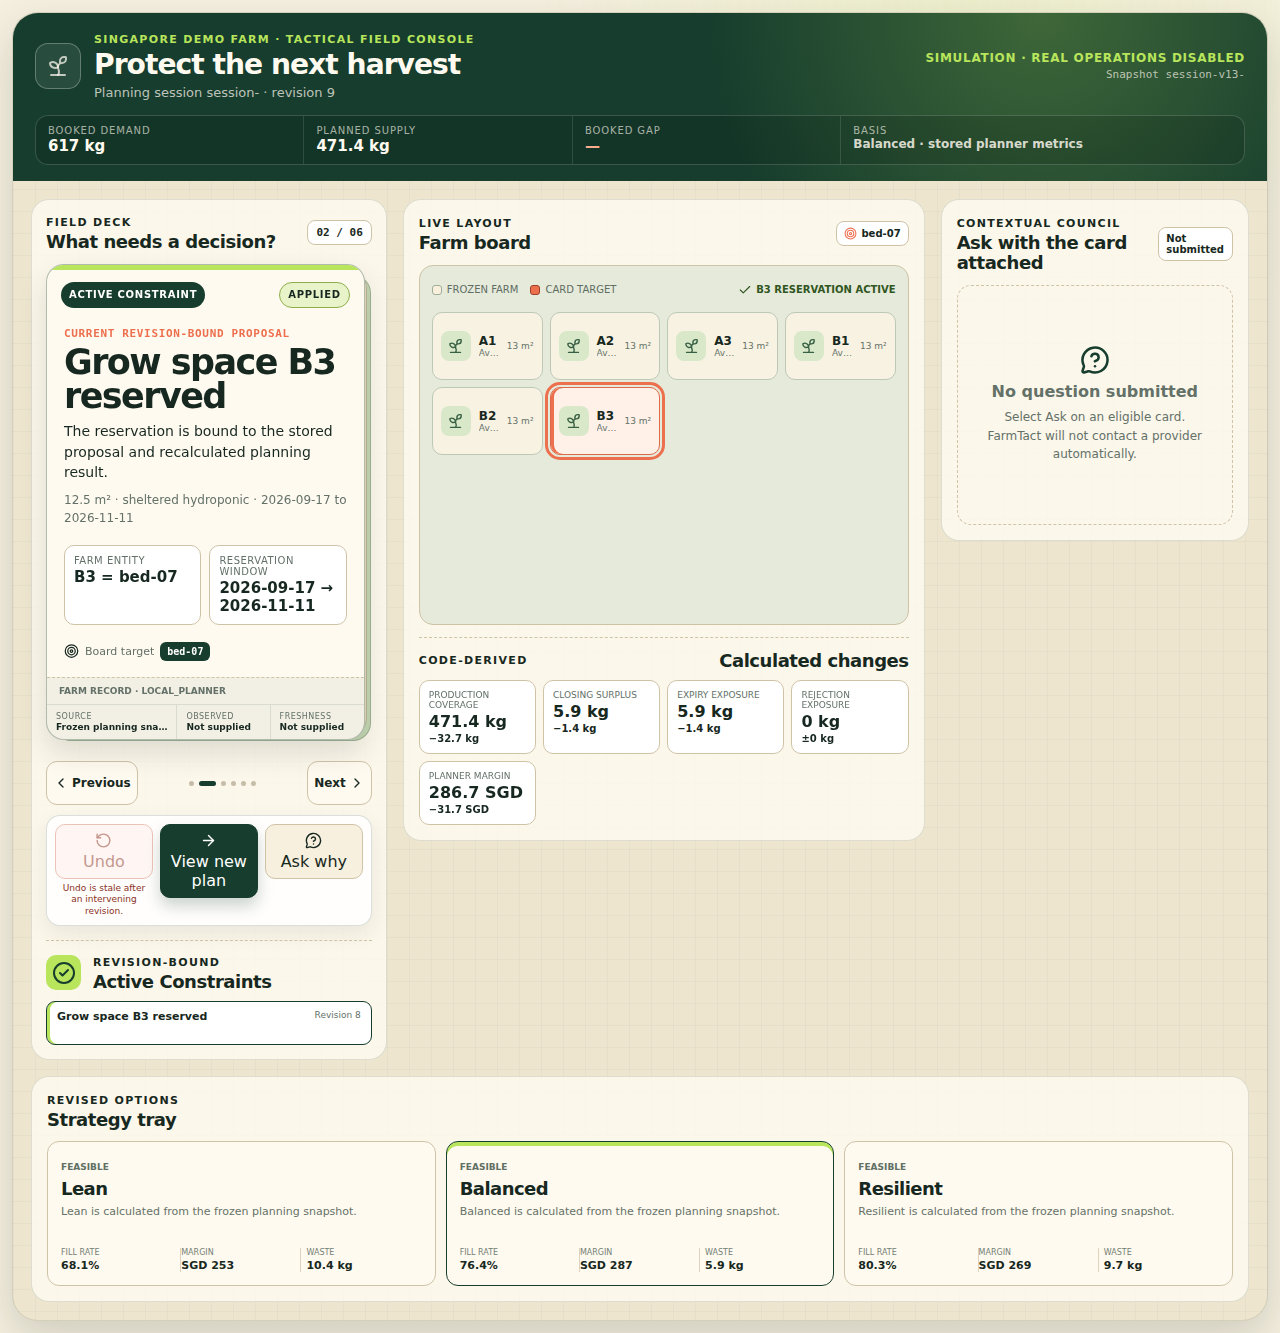
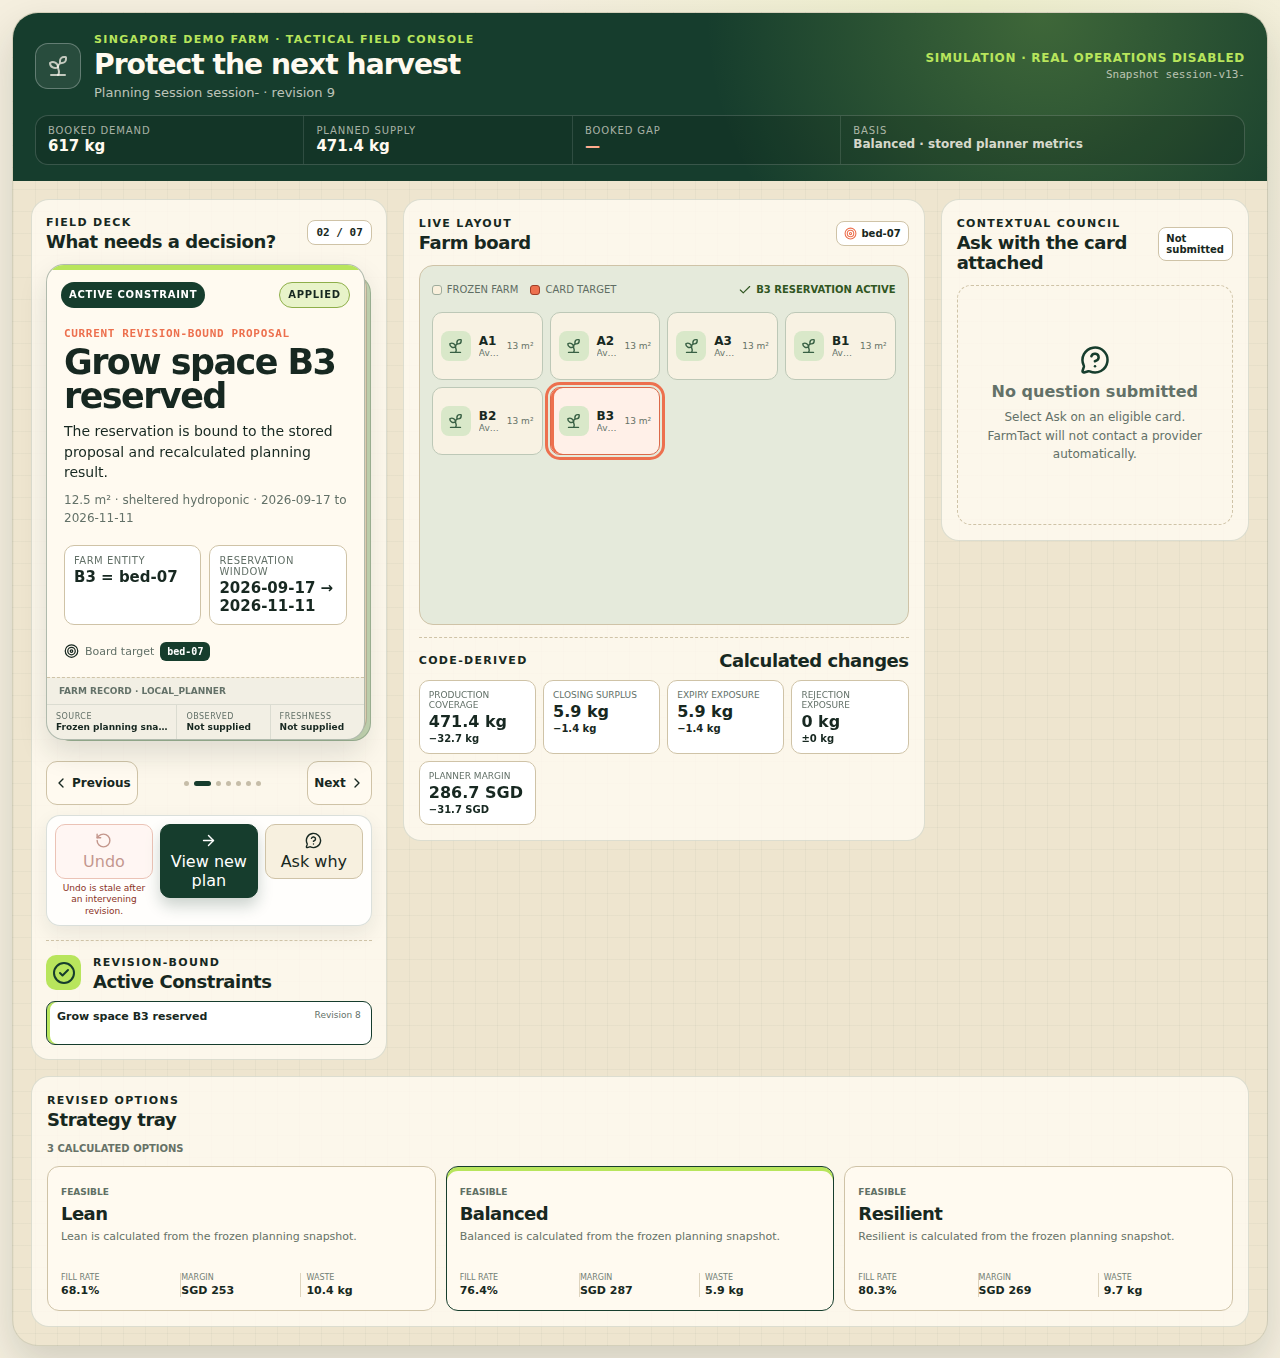
test(v13): record blind judging and shared abuse limits

diff --git a/tests/editions/test_control.py b/tests/editions/test_control.py
@@ -11,7 +11,7 @@ from sqlalchemy import select
 from services.api.edition_control import (
     ControlUnavailable, RemoteControl, control_reservations, create_control_router,
 )
-from services.api.security import AI_IP_BURST, AI_TENANT, Limited
+from services.api.security import AI_IP_BURST, AI_TENANT, API_TENANT, Limited, WRITE_TENANT
 from services.api.store import Store, budget
 
 
@@ -90,6 +90,14 @@ def test_abuse_counters_share_ip_but_scope_tenant_by_edition(control):
         assert consume("v1", AI_TENANT, "tenant-1").status_code == 200
     assert consume("v1", AI_TENANT, "tenant-1").status_code == 429
     assert consume("v2", AI_TENANT, "tenant-1").status_code == 200
+
+    # Generic authenticated API and mutation quotas must also be admitted by
+    # the shared production control service and isolated between editions.
+    assert consume("v1", API_TENANT, "tenant-2").status_code == 200
+    for _ in range(WRITE_TENANT.limit):
+        assert consume("v1", WRITE_TENANT, "tenant-2").status_code == 200
+    assert consume("v1", WRITE_TENANT, "tenant-2").status_code == 429
+    assert consume("v2", WRITE_TENANT, "tenant-2").status_code == 200
 
 
 def test_remote_adapter_matches_store_and_limiter_contracts():

diff --git a/services/api/edition_control.py b/services/api/edition_control.py
@@ -24,8 +24,9 @@ from sqlalchemy import Boolean, Column, Integer, PrimaryKeyConstraint, String, T
 from sqlalchemy.exc import IntegrityError
 
 from services.api.security import (
-    AI_IP_BURST, AI_IP_HOUR, AI_TENANT, API_GLOBAL, API_IP, PREVIEW_IP,
+    AI_IP_BURST, AI_IP_HOUR, AI_TENANT, API_GLOBAL, API_IP, API_TENANT, PREVIEW_IP,
     PREVIEW_TENANT, PROBE_IP, SESSION_GLOBAL, SESSION_IP, STREAM_IP, WRITE_IP,
+    WRITE_TENANT,
     AbuseLimits, Limited,
 )
 from services.api.store import budget, metadata
@@ -38,11 +39,14 @@ ID_PATTERN = re.compile(r"^[A-Za-z0-9][A-Za-z0-9_-]{0,63}$")
 
 CONTROL_RULES = {
     rule.name: rule for rule in (
-        API_IP, API_GLOBAL, WRITE_IP, SESSION_IP, SESSION_GLOBAL, AI_IP_BURST,
+        API_IP, API_GLOBAL, API_TENANT, WRITE_IP, WRITE_TENANT,
+        SESSION_IP, SESSION_GLOBAL, AI_IP_BURST,
         AI_IP_HOUR, AI_TENANT, PREVIEW_IP, PREVIEW_TENANT, PROBE_IP, STREAM_IP,
     )
 }
-EDITION_SCOPED_RULES = frozenset({AI_TENANT.name, PREVIEW_TENANT.name})
+EDITION_SCOPED_RULES = frozenset({
+    API_TENANT.name, WRITE_TENANT.name, AI_TENANT.name, PREVIEW_TENANT.name,
+})
 
 control_reservations = Table(
     "edition_control_reservations", metadata,

diff --git a/reports/v13/judging-personas.md b/reports/v13/judging-personas.md
@@ -1,0 +1,98 @@
+# V13 blind hackathon judging report
+
+Review date: 17 September 2026 UTC. Evidence type: scripted AI-persona review,
+not human usability research. Three judges received only the farm-planning problem
+statement and seven-part hackathon rubric. They were not given a manual and did
+not inspect source or project documentation before using a fresh local V13 tenant.
+
+## Brief supplied to every judge
+
+> Farm managers determine planting schedules based on expected customer demand,
+> crop growth cycles, available land, and seasonal conditions. Planning is largely
+> based on historical experience and manual records, making it difficult to balance
+> production capacity with changing market demand while minimizing crop wastage.
+
+The rubric covered goal/scope, architecture/reasoning loop, tool integration,
+autonomy/human checkpoints, safety/security, observability/evaluation, and
+platform/tooling. Each category was scored from zero to five.
+
+## Personas and first-use findings
+
+| Persona | Viewport and stance | Initial score | Most useful evidence |
+|---|---|---:|---|
+| Farm manager judge | 390 px mobile; evaluates whether the next decision and trade-off are understandable | 24/35 | Found real demand/supply calculations and the Reserve flow, but caught an infeasible reservation, blank booked gap, enabled approval on infeasible plans, and weak blocked-provider explanation. |
+| Agent architect judge | 1280 px desktop; skeptical of decorative “multi-agent” claims | 23/35 | Verified the actual session → proposal → local job → result loop and contextual conversation traffic; traced the infeasibility to `bed-07`'s executed crop and found that inverse recovery incorrectly required a feasible current result. |
+| Security/evaluation judge | 360 px, reduced motion, adversarial pointer/touch/keyboard use | 27/35 | Verified provenance, zero automatic provider traffic, focus binding, persisted jobs, backend duplicate rejection, keyboard/swipe/scroll behavior, and honest fail-closed provider messaging; identified sanitation occupancy, duplicate-click, basis, and metric-binding defects. |
+
+These scores describe the pre-repair candidate. They are not averaged into a claim
+about real judges, farmer comprehension, or competition outcome.
+
+## Defects repaired from judging
+
+1. The B3 reservation now begins on `2026-10-01`, the first day after the recorded
+   crop's harvest **and two sanitation days**, using the planner's own occupancy
+   contract. The post-reservation result has three feasible strategies.
+2. Undo now queues an auditable inverse from the original feasible source even when
+   the current result is infeasible; the original event is retained.
+3. The header never presents an infeasible option as the active basis. Approval is
+   enabled only for the selected feasible strategy and otherwise gives a reason.
+4. Booked gap is derived server-side from requested and delivered booked demand.
+5. Consequence metrics and signed deltas bind to the recalculated result's selected
+   strategy. They no longer silently fall back to Lean when content-derived IDs
+   change.
+6. Reserve, Undo, and baseline calculation take a synchronous client lock on
+   activation; server idempotency/revision guards remain the authority.
+7. A blocked explicit Ask shows the persisted server reason and states that no
+   fallback dialogue was invented. Opening Ask still sends nothing.
+8. Conversation focus rejects a valid entity paired with a different card ID.
+9. Infeasible strategy states, violations, recovery guidance, mobile comparison
+   affordance, contextual Details priority, and a bounded Council-role card are
+   visible in the shell.
+10. Shared-network session admission increased from 10 to 30 new demo sessions per
+    hour while retaining the 100/hour global cap and every API/write/AI-specific
+    limit. This was prompted by three concurrent judges behind one address; it does
+    not relax the narrower inference quotas.
+
+## Targeted post-repair replay
+
+The adversarial judge repeated baseline → B3 Details → Reserve → recalculation →
+Undo on a freshly seeded tenant:
+
+- reservation window `2026-10-01 → 2026-11-02`;
+- exactly one proposal/apply pair and one inverse request under rapid activation;
+- all three recalculated strategies feasible;
+- Balanced remained the displayed basis;
+- Undo restored 446 kg planned supply, 378 kg booked gap, and the feasible baseline;
+- all mutation responses were 201/202; no duplicate 409/422 was produced.
+
+The judge then found that the consequence panel still reflected Lean while the
+header reflected Balanced. That final binding defect was repaired and regression
+tested. The independent real-browser journey now shows one consistent Balanced
+result after reservation: 442 kg production coverage, 41 kg closing surplus,
+193 kg expiry exposure, and SGD 2,731.1 planner margin, with signed deltas.
+
+## Remaining limitations
+
+- Heavy Rainfall is deliberately scenario context and is strongly labelled, but
+  the flagship mutation is the explicit capacity reservation. The interface should
+  not imply that rainfall automatically changed the numerical plan.
+- Details updates a contextual region farther down the mobile page; stronger
+  disclosure/focus semantics remain desirable.
+- Direct single-app development serving lacks the edition gateway's `/api/releases`
+  endpoint, so local-only judging logs one harmless 404. Published routing supplies it.
+- Raw hashes, revisions, and constraint codes remain useful audit evidence but need
+  continued farmer-facing translation.
+- The retained JavaScript bundle warning is a measured optimization item.
+- Screen readers, physical devices, representative farmers, and real-farm efficacy
+  were not tested. No human-usability or accessibility-conformance claim is made.
+
+## Evidence files
+
+- Real backend journey: `tests/browser/v13_real_journey.mjs`
+- Responsive deterministic journey: `tests/browser/v13_tactical_cards.mjs`
+- Final real mobile capture: `apps/web/screenshots/v13-real-mobile-390.png`
+- Responsive captures: `apps/web/screenshots/v13-tactical-{360,390,430,1280}.png`
+- Focus/inverse/admission regressions: `tests/gameplay/test_v13_conversation_focus.py`,
+  `tests/gameplay/test_v13_inverse_proposal.py`, and
+  `tests/review/test_abuse_limits.py`
+

diff --git a/docs/security.md b/docs/security.md
@@ -16,7 +16,7 @@ work. If admission storage is unavailable, requests fail closed with HTTP 503.
 | --- | --- |
 | AI-triggering POSTs, per source IP/network | 6 per minute and 20 per hour |
 | AI-triggering POSTs, per authenticated demo session | 12 per hour |
-| New demo sessions, per source IP/network | 10 per hour |
+| New demo sessions, per source IP/network | 30 per hour |
 | New demo sessions, entire app | 100 per hour |
 | API requests, per source IP/network | 600 per minute |
 | Application writes, per source IP/network | 60 per minute |
